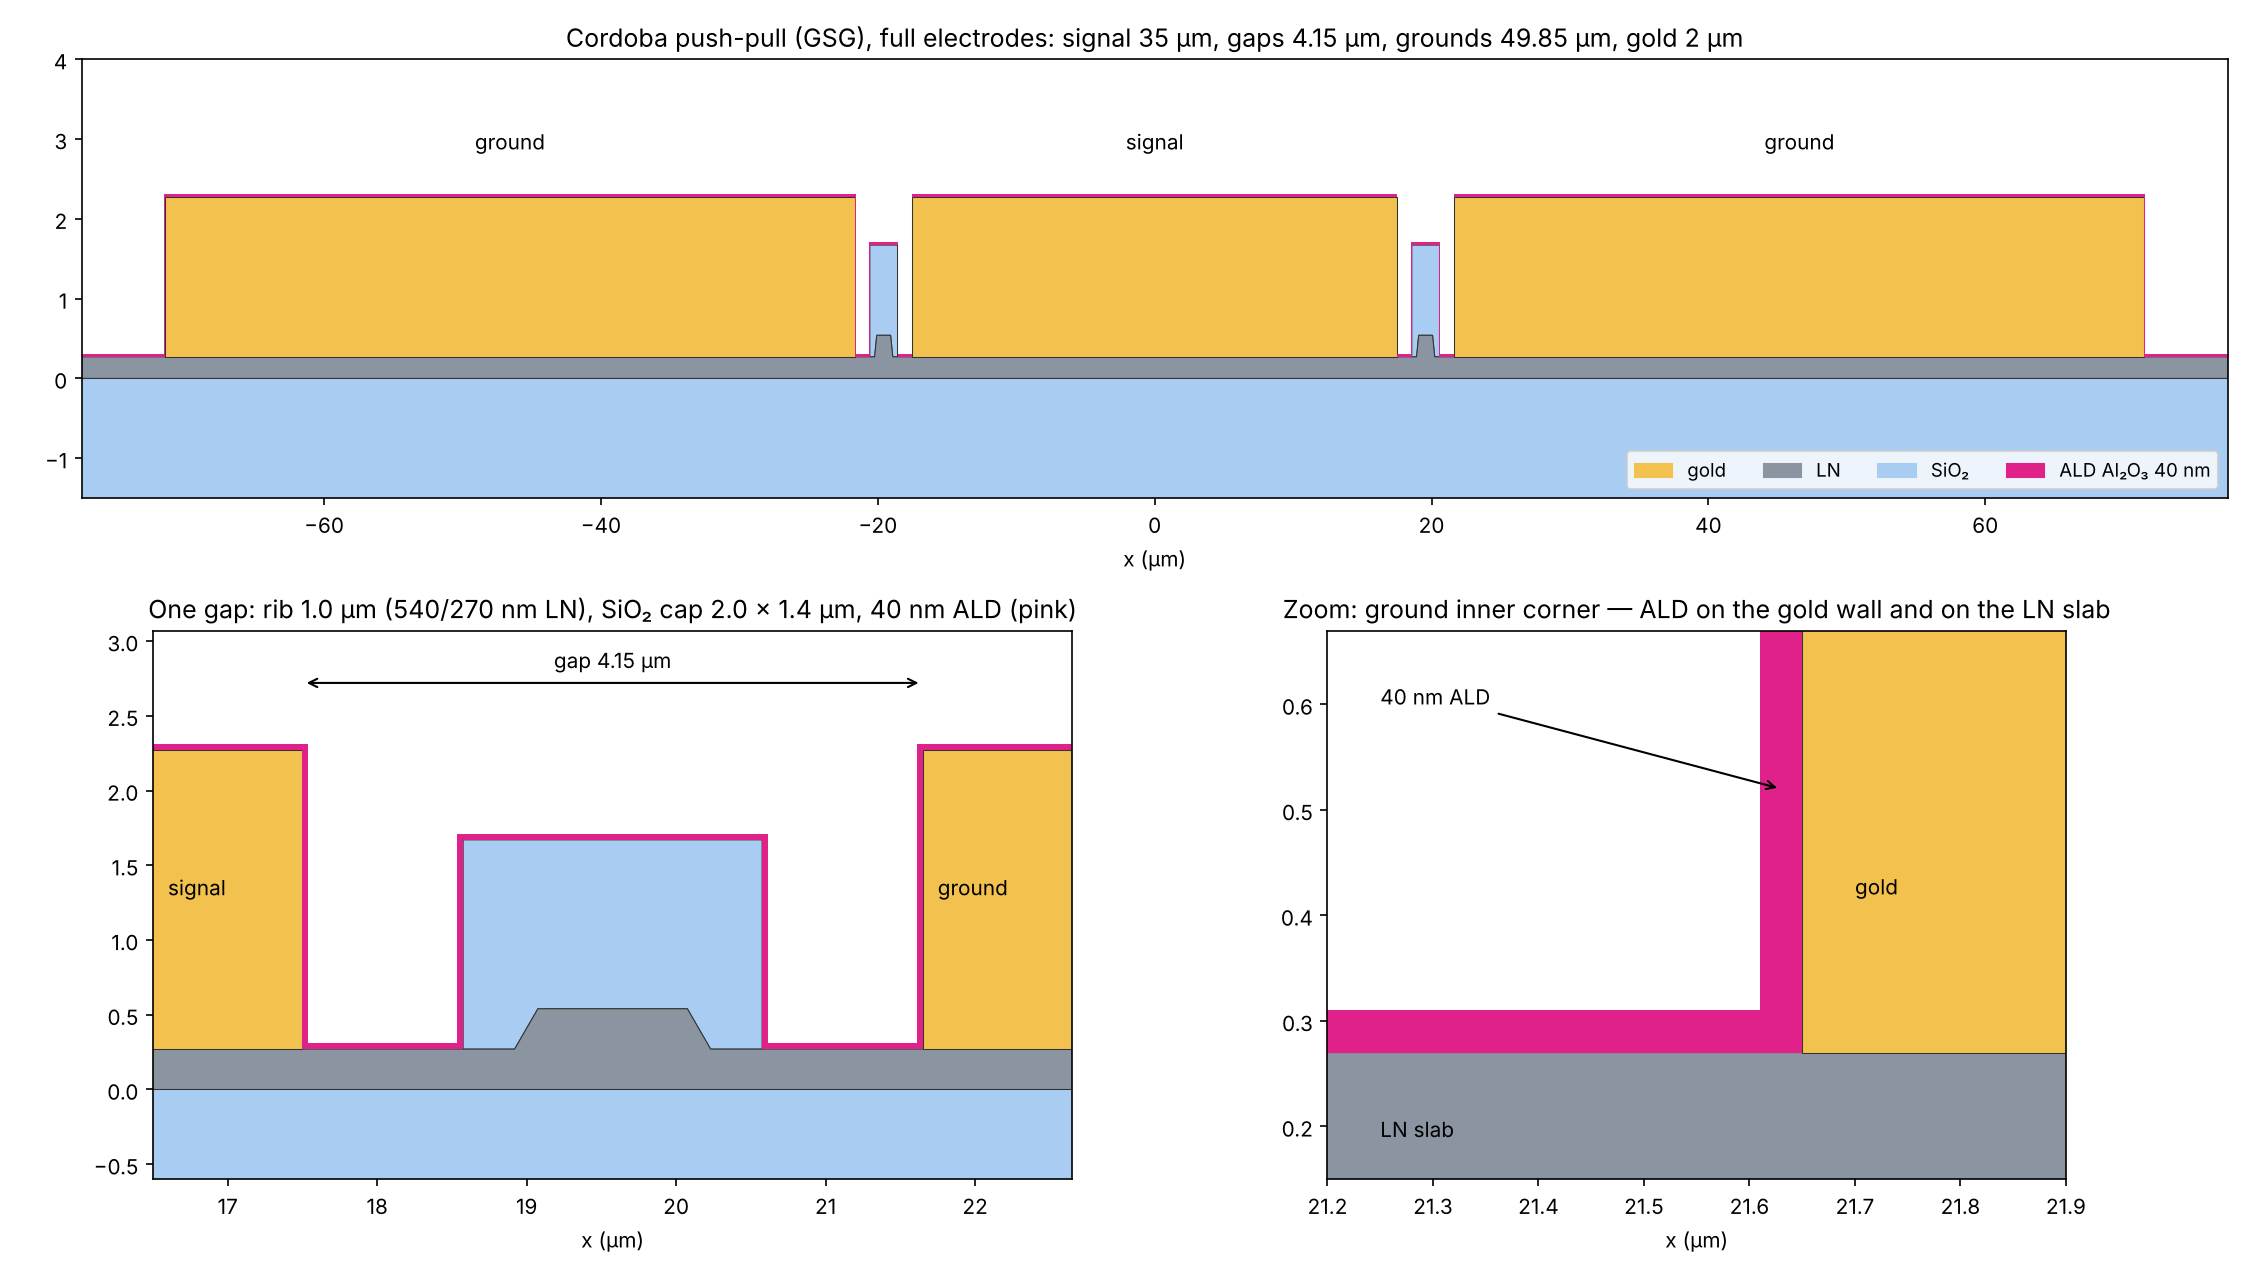
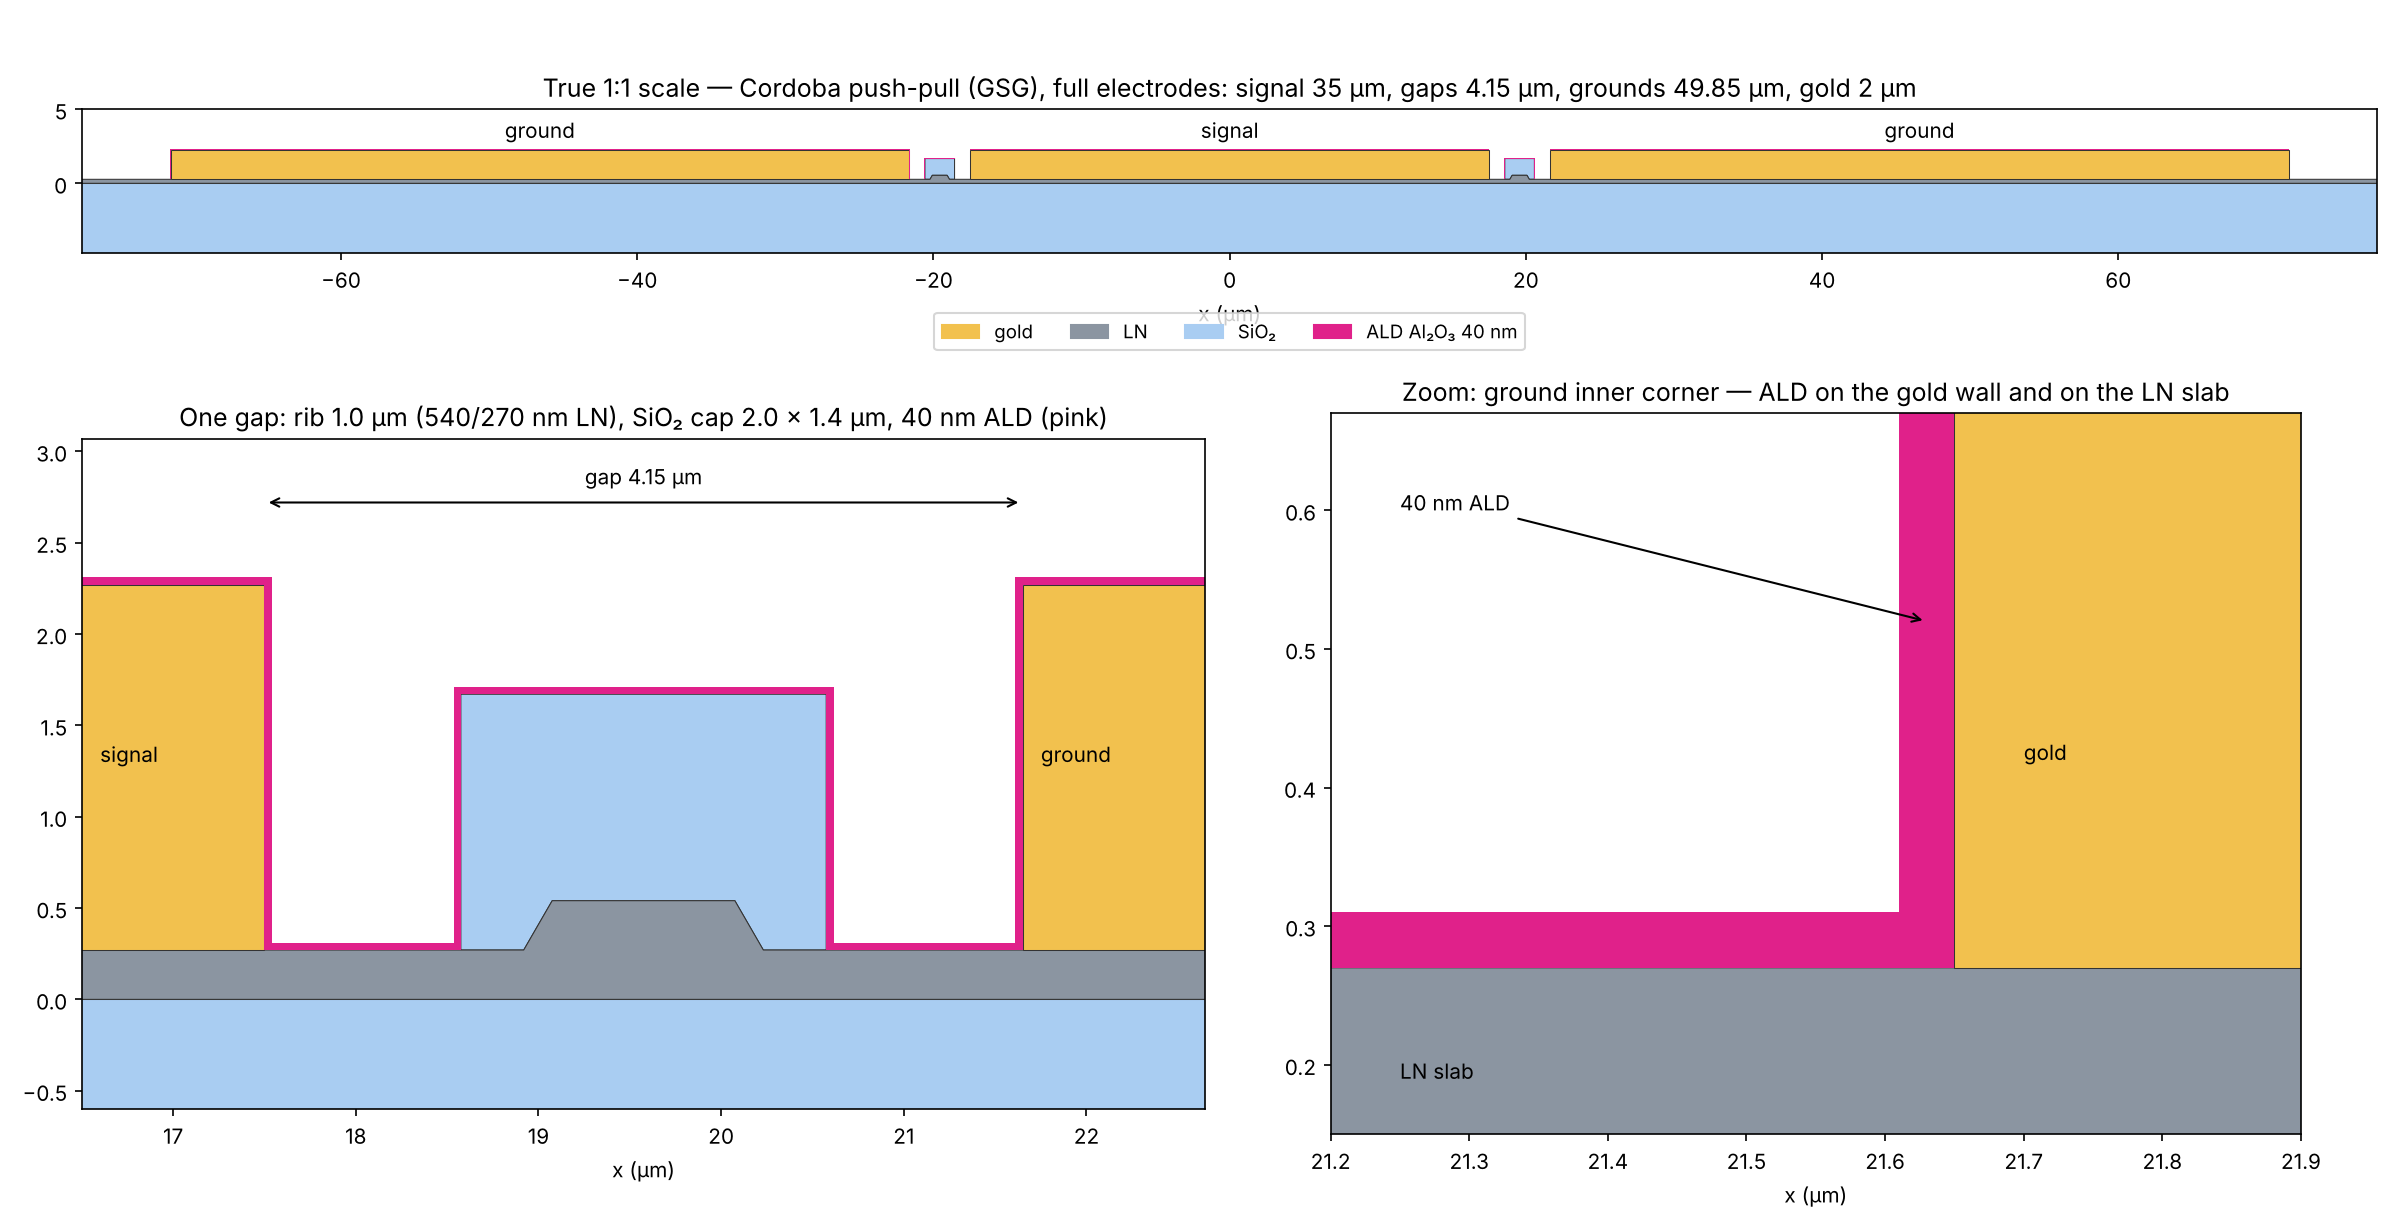
Cordoba ALD 40 nm sketch: true 1:1 aspect on all panels
Claude-Session: https://claude.ai/code/session_01EHQDy7yrZwCZyHELu6KFb3

diff --git a/results/rf_cordoba/sketch_ald.py b/results/rf_cordoba/sketch_ald.py
@@ -16,10 +16,10 @@ def draw(ax, xl, yl):
             for r in q.interiors: ax.add_patch(plt.Polygon(np.asarray(r.coords), fc="white", ec="#333", lw=0.5))
     ax.set_xlim(*xl); ax.set_ylim(*yl); ax.set_aspect("equal"); ax.set_xlabel("x (µm)")
 xs, xgi, xgo, yel = g["x_sig"], g["x_gi"], g["x_go"], g["y_el"]
-fig = plt.figure(figsize=(15, 8.5)); gs = fig.add_gridspec(2, 2, height_ratios=[1, 1.25])
-a = fig.add_subplot(gs[0, :]); draw(a, (-xgo - 6, xgo + 6), (-1.5, 4)); a.set_aspect("auto")
-a.set_title("Cordoba push-pull (GSG), full electrodes: signal 35 µm, gaps 4.15 µm, grounds 49.85 µm, gold 2 µm")
-for x0, x1, t in ((-xs, xs, "signal"), (xgi, xgo, "ground"), (-xgo, -xgi, "ground")): a.text((x0 + x1) / 2, yel + 0.6, t, ha="center")
+fig = plt.figure(figsize=(16, 8.2)); gs = fig.add_gridspec(2, 2, height_ratios=[0.55, 1.25])
+a = fig.add_subplot(gs[0, :]); draw(a, (-xgo - 6, xgo + 6), (-4.7, 5))
+a.set_title("True 1:1 scale — Cordoba push-pull (GSG), full electrodes: signal 35 µm, gaps 4.15 µm, grounds 49.85 µm, gold 2 µm")
+for x0, x1, t in ((-xs, xs, "signal"), (xgi, xgo, "ground"), (-xgo, -xgi, "ground")): a.text((x0 + x1) / 2, yel + 0.8, t, ha="center")
 b = fig.add_subplot(gs[1, 0]); draw(b, (xs - 1.0, xgi + 1.0), (-0.6, yel + 0.8))
 b.set_title("One gap: rib 1.0 µm (540/270 nm LN), SiO₂ cap 2.0 × 1.4 µm, 40 nm ALD (pink)")
 for x0, t in ((xs - 0.9, "signal"), (xgi + 0.1, "ground")): b.text(x0, 1.3, t)
@@ -29,5 +29,5 @@ c.set_title("Zoom: ground inner corner — ALD on the gold wall and on the LN sl
 c.annotate("40 nm ALD", (xgi - 0.02, g["slab_h"] + 0.25), (xgi - 0.4, g["slab_h"] + 0.33), arrowprops=dict(arrowstyle="->"), fontsize=10)
 c.text(xgi + 0.05, g["slab_h"] + 0.15, "gold"); c.text(xgi - 0.4, g["slab_h"] - 0.08, "LN slab")
 from matplotlib.patches import Patch
-a.legend(handles=[Patch(color=COL[m], label=l) for m, l in (("Au", "gold"), ("LN", "LN"), ("SiO₂" and "SiO2", "SiO₂"), ("Al2O3", "ALD Al₂O₃ 40 nm"))], loc="lower right", ncol=4, fontsize=9)
+a.legend(handles=[Patch(color=COL[m], label=l) for m, l in (("Au", "gold"), ("LN", "LN"), ("SiO₂" and "SiO2", "SiO₂"), ("Al2O3", "ALD Al₂O₃ 40 nm"))], loc="upper center", bbox_to_anchor=(0.5, -0.35), ncol=4, fontsize=9)
 plt.tight_layout(); plt.savefig("cordoba_ALD40_sketch.png", dpi=150); print("ok")
